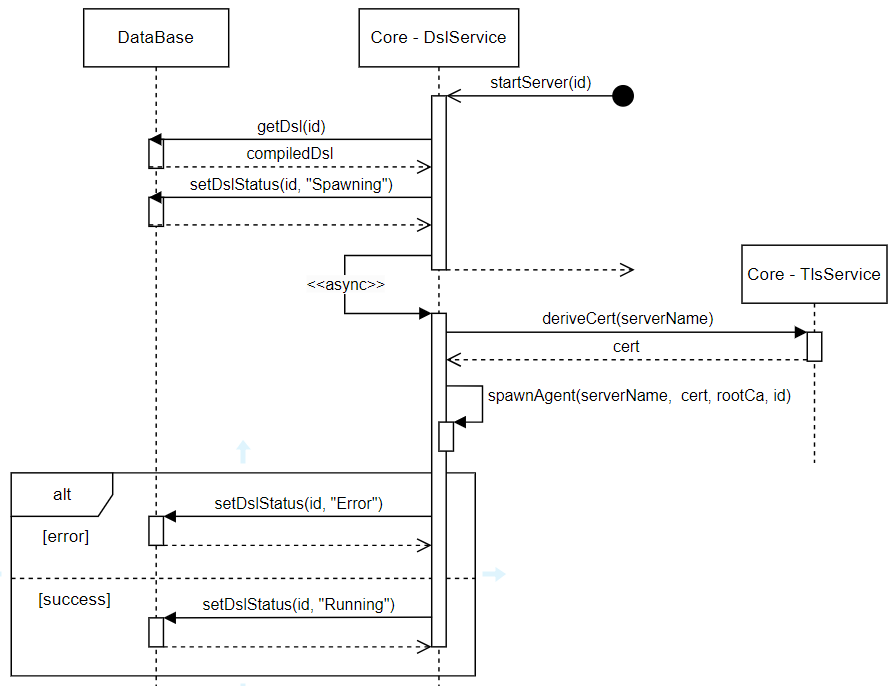
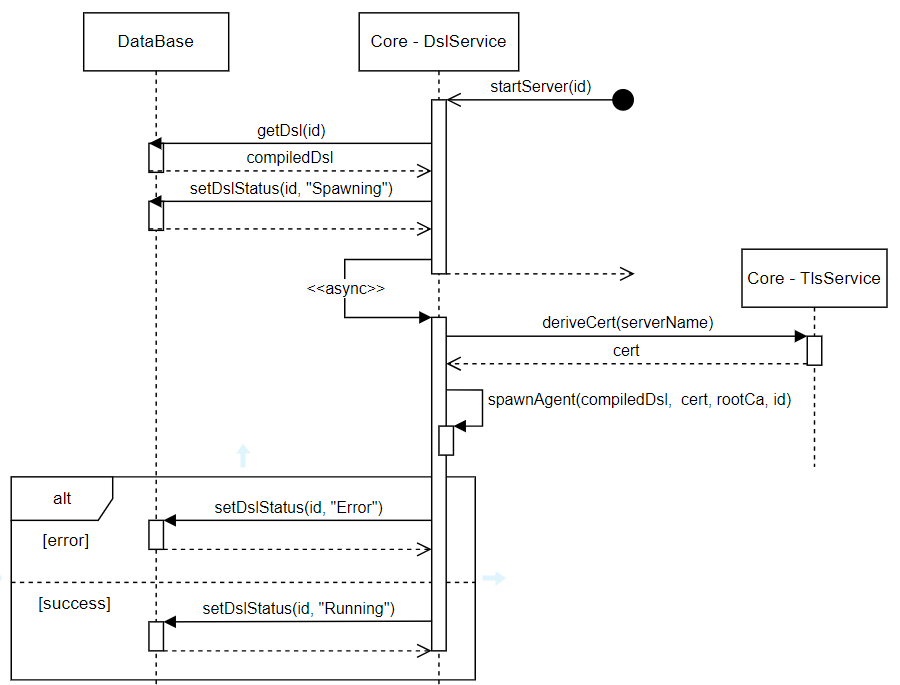
.

diff --git a/doc/src/content/75_implementation/process/spawn.tex b/doc/src/content/75_implementation/process/spawn.tex
@@ -1,4 +1,4 @@
-\subsection{Agent startup}
+\subsection{Spawning of an agent}
 
 The second outside interaction is required to spawn the agent. To spawn an agent, the user must send an HTTP Post request to the `/api/v1/servers/\{dslId\}/start' endpoint of the Core server. The \ref{fig:start1} figure shows how the service layer of the Core server handles the request.
 
@@ -9,22 +9,57 @@ The second outside interaction is required to spawn the agent. To spawn an agent
     \label{fig:start1}
 \end{figure}
 
-script is uploaded on uid
-compilation starts
-    pull script
-    prepare file
-    gradle build
-    mention: caching, how the builder image is created
-    explain build health check and cleaing cycle
-once compiled it can be started
-process of starting:    
-    read script to memory, execute it to get the wh conf data
-    get tls cert
-    create k8s resources: deployment service, whsconf, crb
-    explain agent health check
-    explain rollback
-agent starts, agent downloads script with curl
-    explain why is it good to precompile script
-    dynamically link compiled jar -cp ; custom class loader
-    use reflection to find the getServer method
-    configuring router
+First, the compiled script is loaded from the database. Secondly, the status of the DSL script is set to `Spawning'. The rest is done on another thread, and the `startServer' function returns.
+
+All agents use HTTPS, so they require a TLS certificate, which can be requested from the TlsService.
+After a new certificate is created, the next step is to execute the compiled script, to extract information, such as the name of the \emph{ClusterRole}, or the webhook configurations, all of which are required during the spawning of the agent.
+
+In the \ref{fig:start1} diagram, the steps of spawning an agent are not detailed; instead, these steps are abstracted by the `spawnAgent' function. The \ref{code:start2} pseudocode better summarizes the steps of the `spawnAgent' function than a sequence diagram.
+
+\begin{lstlisting}[caption={Spawning of an agent},language=Kotlin,label=code:start2]
+val server = executeScript(compiledDsl)
+
+k8s.create(Secret(rootCa, certificates))
+
+val dep = Deployment(server)
+val svc = Service(server)
+if (server.hasClusterRole() == true) {
+    val sa = ServiceAccount(server)
+    val crb = ClusterRoleBinding(server)
+    k8s.create(sa)
+    k8s.create(crb)
+    dep.serviceAccountName = sa.name
+}
+k8s.create(dep)
+k8s.create(svc)
+...
+\end{lstlisting}
+
+First, a Kubernetes \emph{Secret} resource is created with the certificates and keys needed for the Agent. This will be mounted to the \emph{Deployment}.
+After that, a \emph{Deployment} and a \emph{Service} object are created locally using the configuration from the server object. If the server has the `clusterRole' keyword set, a \emph{ServiceAccount} and a \emph{ClusterRoleBinding} are created as well, and the previously created \emph{Deployment} is set to use the \emph{ServiceAccount}. After that, the \emph{Deployment} and the \emph{Service} are created on the cluster too.
+
+The creation of the \emph{Deployment} does not imply that the agent is ready to serve requests, so the spawning has to wait for the agent to become available. The \emph{MutatingWebhookConfiguration} should not be created before the agent can serve requests because that would result in an unstable state, where an admission webhook has no actual server implementing it. The details of how an agent actually starts up are described in the next section. For now, let's focus on what's happening inside the Core component.
+
+The \ref{code:start3} pseudocode shows how the startup of the agent is awaited, and what additional steps are done.
+
+\begin{lstlisting}[caption={Spawning of an agent},language=Kotlin,label=code:start3]
+...
+try {
+    k8s.waitUntilAvailable(dep)
+    success = true
+} catch (e: TimeoutException) {
+    doRollback()
+    success = false
+}
+        
+if (success) {
+    k8s.create(MutatingWebhookConfiguration(server, rootCa))
+    setDslStatus(id, "Running")
+} else {
+    setDslStatus(id, "Error")
+}
+\end{lstlisting}
+
+If the agent becomes available before the timeout, the \emph{MutatingWebhookConfiguration} is created too. Otherwise, a rollback is performed, deleting all the previously created resources.
+
+Finally, the status of the agent is updated in the database.

diff --git a/doc/src/content/75_implementation/process/startup.tex b/doc/src/content/75_implementation/process/startup.tex
@@ -1,0 +1,33 @@
+\subsection{Agent startup}
+
+Agents have custom startup sequence. First the root CA is added to the trusted certificate authorities, as seen with the Builder. After that the agent certificate and keys are converted from PEM encoded to a Java KeyStore\footnote{\url{https://en.wikipedia.org/wiki/Java_KeyStore}}, like demonstrated in the \ref{code:jks} code snippet. This is essential because Ktor cannot be configured to use HTTPS with PEM files; it only accepts JKS files.
+
+\begin{lstlisting}[caption={From PEM to JKS transormation},language=Kotlin,label=code:jks]
+openssl pkcs12 -export -in $ssl_root/cert.pem -inkey $ssl_root/key.pem -out $app_root/keystore.p12 -name "AgentCert" -password pass:$secret
+keytool -importkeystore -srckeystore $app_root/keystore.p12 -srcstoretype pkcs12 -destkeystore /app/keystore.jks -deststorepass $secret -srcstorepass $secret
+\end{lstlisting}
+
+The next step is to download the compiled script JAR file. It is downloaded from the Core server using the wget command. 
+
+Afterwards, the downloaded JAR is appended to classpath of the java command running the agent. Finally, the agent is started, as demonstrated on the \ref{code:startup0} code snippet.
+
+\begin{lstlisting}[caption={Starting the agent JAR},language=Kotlin,label=code:startup0]
+echo ":/app/libs/agentdsl.jar" >> "/app/jib-classpath-file"
+java -cp "@/app/jib-classpath-file" me.btieger.ApplicationKt
+\end{lstlisting}
+
+The file `/app/jib-classpath-file' contains all the names of the JARs added to the classpath in a colon-separated list. For the java command, the `-cp' switch can be used to add JARs to the classpath.
+
+The following events are happening inside the code of the agent Ktor server:
+
+\begin{itemize}
+    \item The server is configured to use HTTPS.
+    \item The server object from the compiled script is created.
+    \item The `/aggregator' endpoint is generated if the script has a report block.
+    \item An HTTP Post endpoint is created for all webhooks.
+    \item The Agent server starts to server requests.
+\end{itemize}
+
+The Agent has an echo endpoint which indicates that it has started serving requests. The Core component waits for this endpoint to return HTTP 200 OK, before creating the \emph{MutatingWebhookConfiguration}.
+
+After this lengthy process, the agent is now running, and Kubernetes is configured. As a result, the constraints defined in the script are live, and the report can be generated.

diff --git a/doc/src/content/75_implementation/process/build.tex b/doc/src/content/75_implementation/process/build.tex
@@ -101,6 +101,8 @@ This pattern ensures that if the command succeeds, the fact of the success is lo
 
 The call of the Gradle build on line 14 is unique. The \lstinline*./gradlew jar >> $logsfile 2>&1* bash magic appends the standard output (stdout) and the standard error (stderr) to the logsfile.
 
+TODO: show screenshot of an error report
+
 \subsubsection{Builder job cleanup loop}
 
 I've explained how graceful errors are handled during compilation, but there might be fatal errors, where the error report does not reach the Core component. In this case the DSL would remain in "Building" state indefinitely if not for the job health check loop.

diff --git a/doc/src/include/preamble.tex b/doc/src/include/preamble.tex
@@ -94,7 +94,7 @@
 }
 
 \lstdefinelanguage{Kotlin}{
-  morekeywords={fun, class, object, var, val, if, else, internal, return, private, by, data, annotation, typealias, infix, override, constructor, while, true, false},
+  morekeywords={fun, class, object, var, val, if, else, internal, return, private, by, data, annotation, typealias, infix, override, constructor, while, true, false, try, catch},
   sensitive=true, % keywords are not case-sensitive
   morecomment=[l]{//}, % l is for line comment
   morecomment=[s]{/*}{*/}, % s is for start and end delimiter

diff --git a/doc/src/content/75_implementation/process/main.tex b/doc/src/content/75_implementation/process/main.tex
@@ -5,6 +5,5 @@ This section describes the process of deploying a DSL script, from to code, to a
 \subfile{build.tex}
 
 \subfile{spawn.tex}
- 
 
-
+\subfile{startup.tex}
